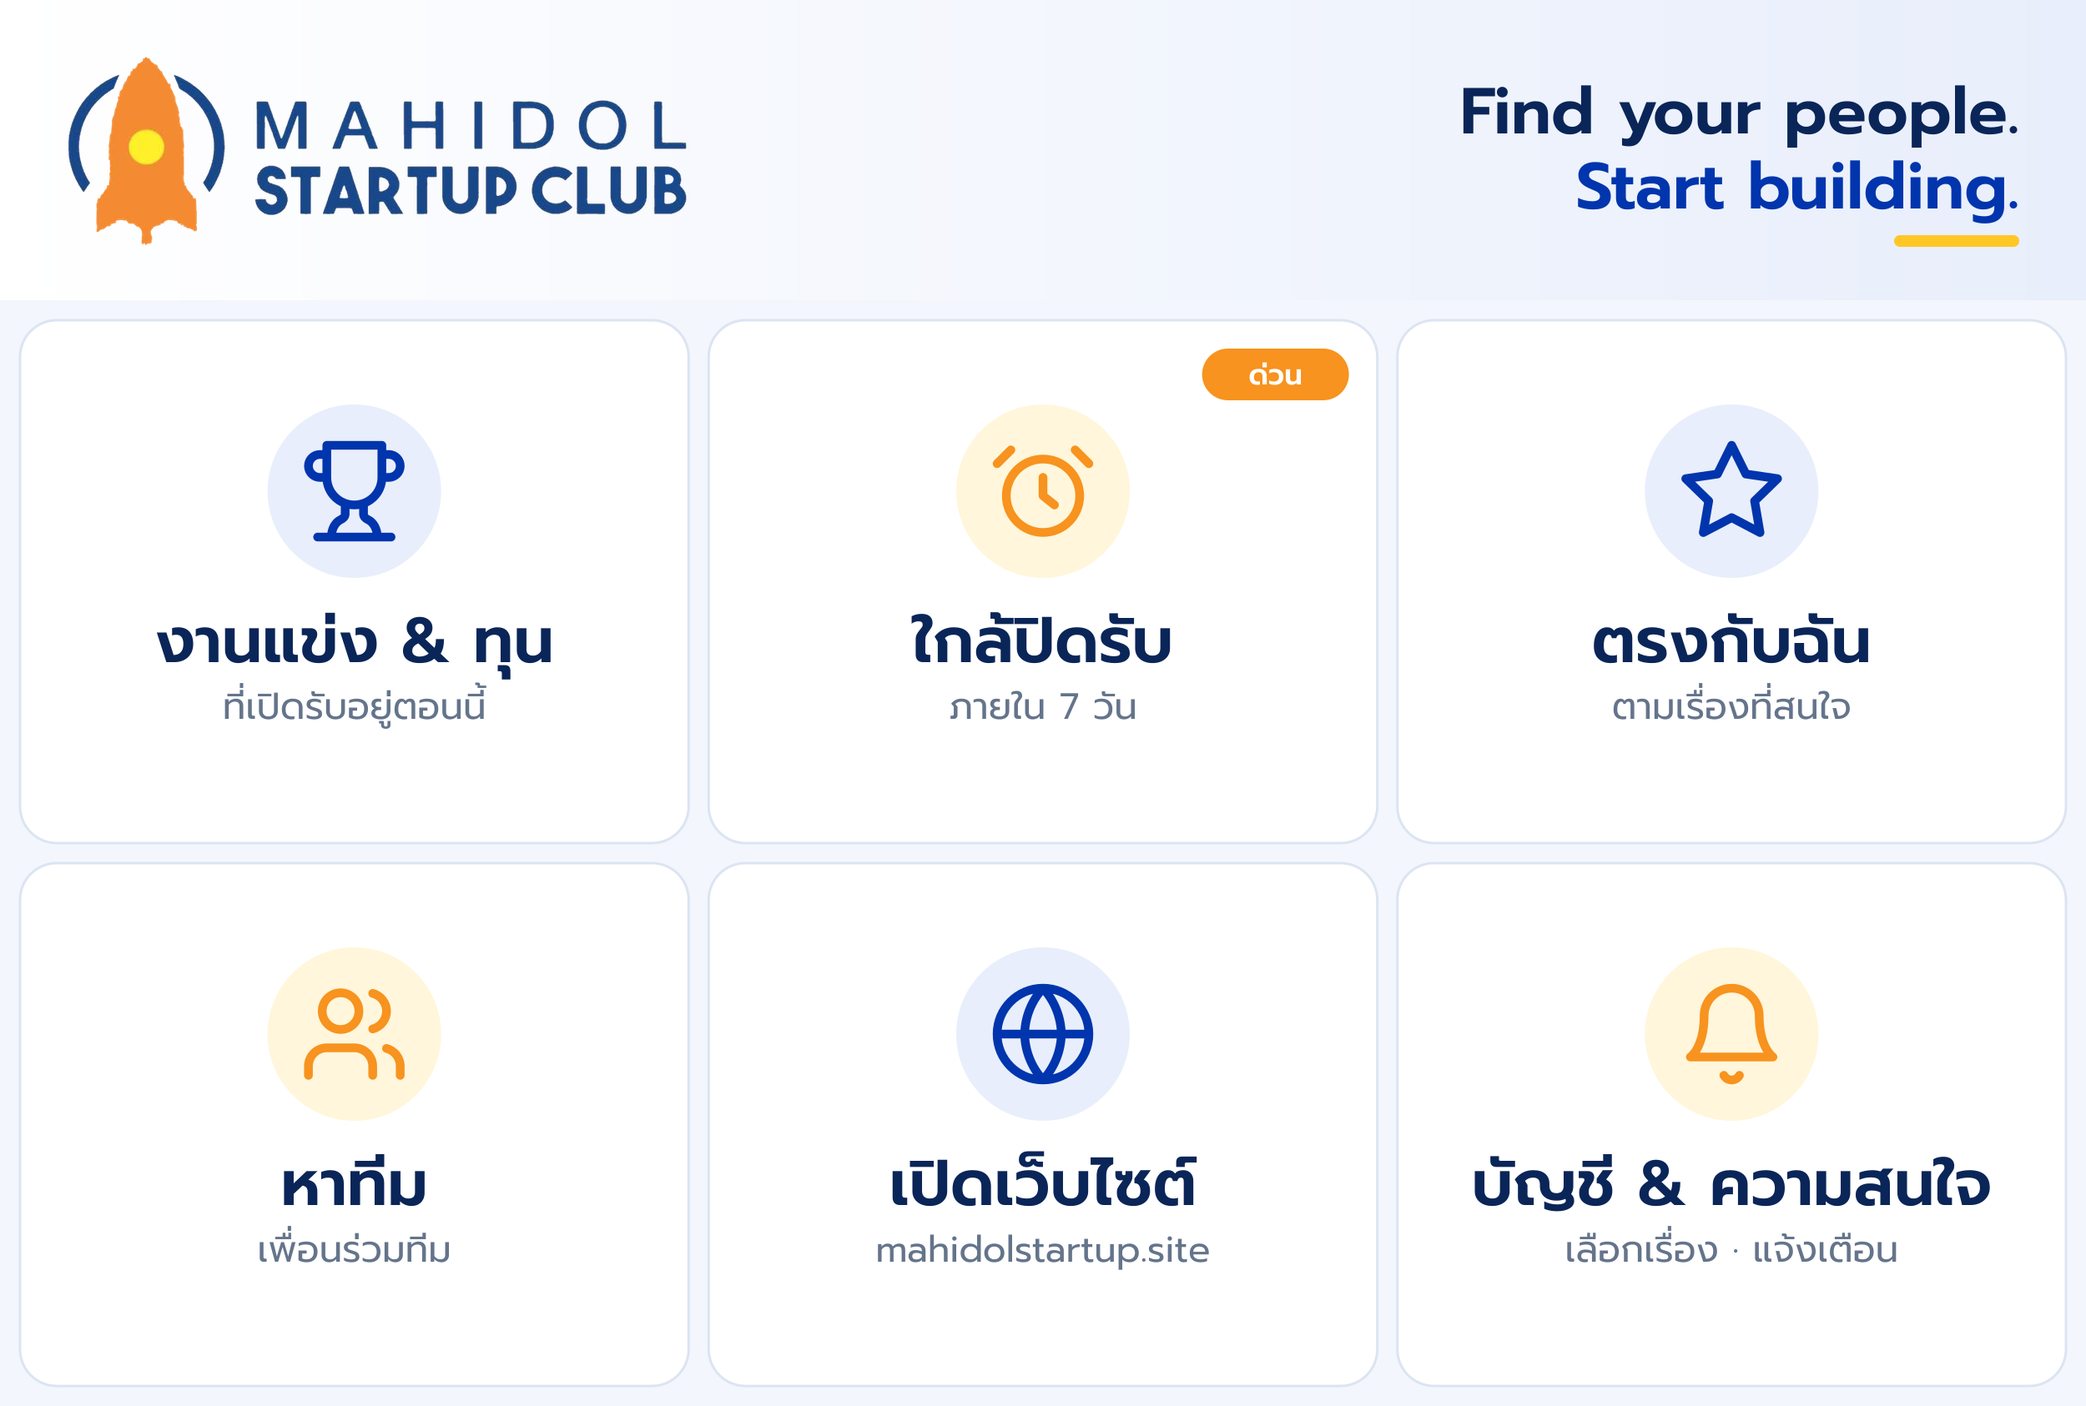
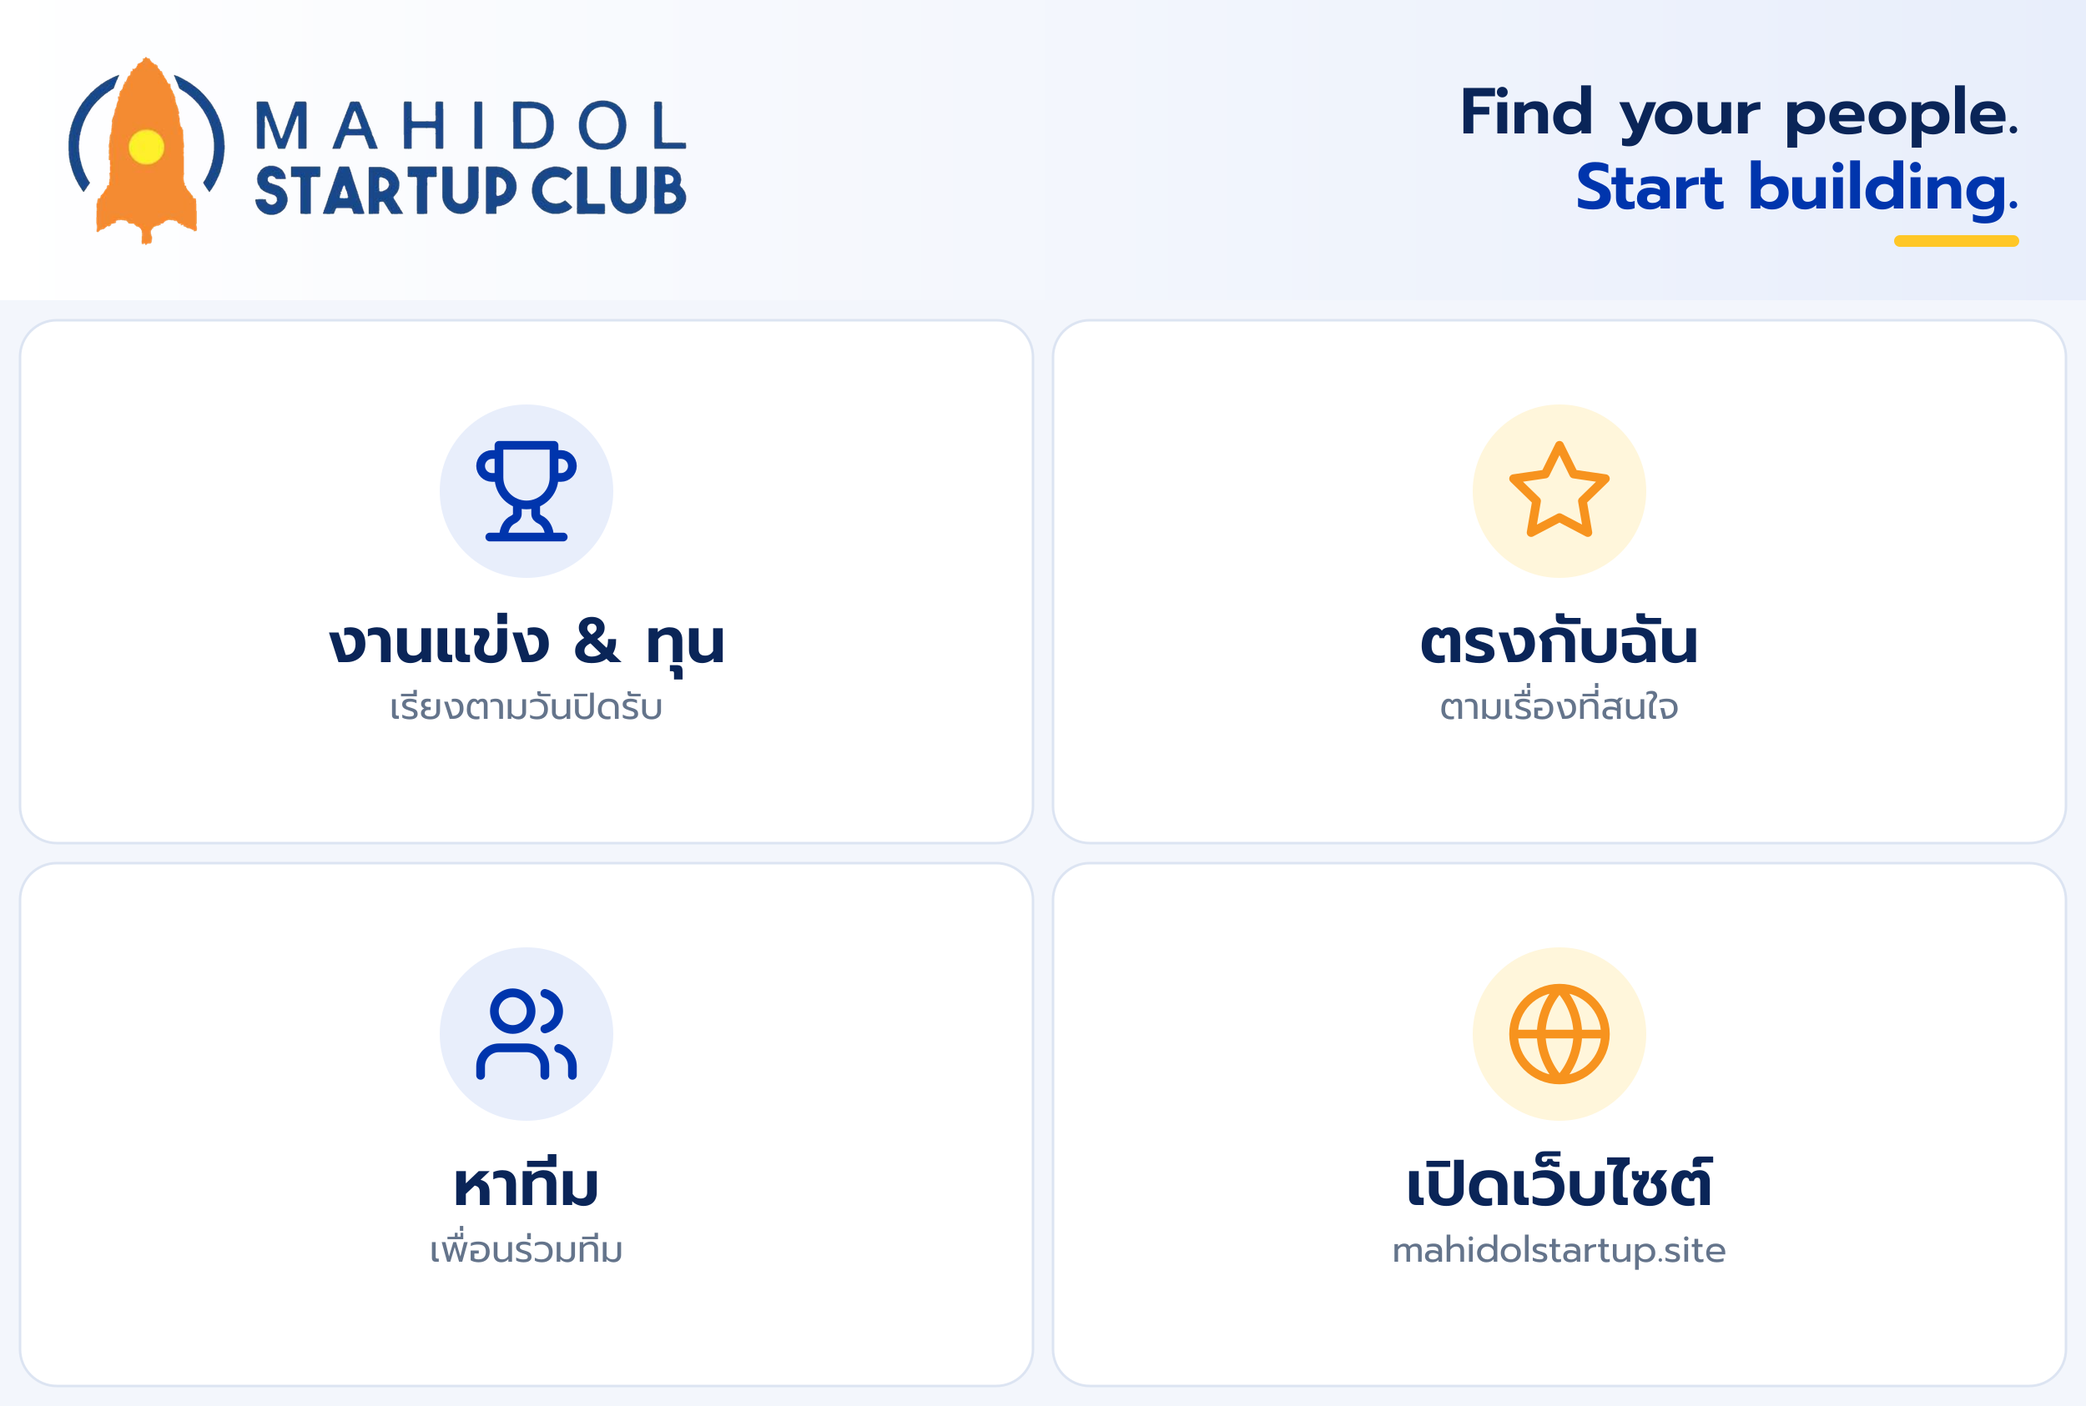
LINE: 4-button menus (2×2), no duplicate quick replies or trailing nudges
- Member: งานแข่ง & ทุน · ตรงกับฉัน · หาทีม · เปิดเว็บไซต์; guest: งานแข่ง & ทุน · หาทีม ·
  สมัครสมาชิกฟรี · เปิดเว็บไซต์ (closing-soon stays first in the deadline-sorted list)
- Removed quick-reply rows and follow-up text bubbles; empty/edge states are cards

diff --git a/src/lib/line/bot.ts b/src/lib/line/bot.ts
@@ -6,7 +6,7 @@ import { isClosed, msLeft, thaiDeadline, timeLeftLabel, urgency } from '@/lib/fo
 import { CATEGORIES, ROLE_KEYS, type Role } from '@/lib/constants'
 import { TOPICS } from '@/lib/topics'
 import { issueLinkToken, linkPageUrl } from './link'
-import { WELCOME_IMAGE, absoluteUrl, eventsCarousel, noticeFlex, textMessage, type NoticeContent, type QuickReply } from './messaging'
+import { WELCOME_IMAGE, eventsCarousel, noticeFlex, textMessage, type NoticeContent } from './messaging'
 import type { EventRow } from '@/lib/types'
 
 // What the OA chat answers. Every menu button is a postback ("m:<action>") answered with a
@@ -25,25 +25,7 @@ export async function linkedProfile(lineUserId: string): Promise<Linked | null> 
 
 const web = (path: string) => `${path}${path.includes('?') ? '&' : '?'}src=line`
 
-const MEMBER_QUICK: QuickReply[] = [
-  { label: '🏆 งานที่เปิดรับ', data: 'm:open' },
-  { label: '⏰ ใกล้ปิดรับ', data: 'm:closing' },
-  { label: '⭐ ตรงกับฉัน', data: 'm:foryou' },
-  { label: '👥 หาทีม', data: 'm:teams' },
-  { label: '🎯 เลือกความสนใจ', url: '/settings/interests?src=line' },
-  { label: '🌐 เปิดเว็บ', url: '/?src=line' },
-]
-const GUEST_QUICK: QuickReply[] = [
-  { label: '🚀 สมัครสมาชิกฟรี', data: 'm:join' },
-  { label: '🏆 งานที่เปิดรับ', data: 'm:open' },
-  { label: '⏰ ใกล้ปิดรับ', data: 'm:closing' },
-  { label: '👥 หาทีม', data: 'm:teams' },
-  { label: '🌐 เปิดเว็บ', url: '/?src=line' },
-]
-/** Quick replies under a message: guests always see "สมัครสมาชิกฟรี" first. */
-export const quickFor = (p: Linked | null) => (p ? MEMBER_QUICK : GUEST_QUICK)
-export const MENU_QUICK = MEMBER_QUICK
-const quickMsg = (text: string, p: Linked | null) => textMessage(text, quickFor(p))
+// No quick replies: the bottom menu already has every action, so replies stay clean.
 
 // Interests use the same keys as the website profile ("สายที่สนใจ") and event tags.
 export const INTEREST_LABEL: Record<Role, string> = {
@@ -137,7 +119,6 @@ export async function welcome(lineUserId: string, profile: Linked | null, justLi
           { type: 'uri', label: 'เปิดเว็บไซต์', url: web('/') },
         ],
       }),
-      quickMsg('สมัครฟรีได้เลย หรือดูงานก่อนก็ได้ 👇', null),
     ]
   }
   // Interests are picked on the website (/settings/interests) — one card here, no picker.
@@ -215,19 +196,16 @@ export async function openEvents(closingSoon: boolean, p: Linked | null = null):
   const more = closingSoon ? '/opportunities?within=7' : '/opportunities'
   if (!events.length) {
     return [
-      textMessage(closingSoon ? 'ไม่มีงานที่ปิดรับภายใน 7 วัน 🎉 ดูงานที่เปิดรับทั้งหมดได้เลย' : 'ตอนนี้ยังไม่มีงานที่เปิดรับ — มีงานใหม่เมื่อไหร่ เราจะบอก', [
-        { label: '🏆 งานที่เปิดรับ', data: 'm:open' },
-        { label: '🌐 เปิดเว็บ', url: web('/opportunities') },
-      ]),
+      noticeFlex({
+        altText: 'ยังไม่มีงานที่เปิดรับ',
+        title: closingSoon ? 'ไม่มีงานที่ปิดรับภายใน 7 วัน 🎉' : 'ตอนนี้ยังไม่มีงานที่เปิดรับ',
+        subtitle: 'มีงานใหม่เมื่อไหร่ จะขึ้นที่นี่และบนเว็บทันที',
+        actions: [{ type: 'uri', label: 'เปิดหน้างานแข่งบนเว็บ', url: web('/opportunities') }],
+      }),
     ]
   }
   return [
     eventsCarousel(closingSoon ? 'งานที่ใกล้ปิดรับใน 7 วัน' : 'งานแข่ง & ทุนที่เปิดรับ', events.slice(0, 9).map((ev) => eventItem(ev)), web(more)),
-    quickMsg(
-      (closingSoon ? `⏰ ${events.length} งานปิดรับภายใน 7 วัน — เลื่อนดูได้เลย` : `🏆 เปิดรับอยู่ ${events.length} งาน เรียงตามวันปิดรับ — เลื่อนดู หรือเปิดดูทั้งหมดบนเว็บ`) +
-        (p ? '' : '\n\n🚀 สมัครสมาชิกฟรี เพื่อรับงานที่ตรงกับคุณและเตือนก่อนปิดรับ'),
-      p,
-    ),
   ]
 }
 
@@ -241,15 +219,19 @@ export async function forYou(lineUserId: string, p: Linked | null): Promise<Line
     .sort((a, b) => byDeadline(a.ev, b.ev))
   if (!matches.length) {
     return [
-      textMessage('ตอนนี้ยังไม่มีงานที่ตรงกับความสนใจของคุณเปิดรับอยู่ — ลองเลือกเพิ่ม หรือดูงานทั้งหมด', [
-        { label: '🎯 เลือกความสนใจ', url: web('/settings/interests') },
-        { label: '🏆 งานที่เปิดรับ', data: 'm:open' },
-      ]),
+      noticeFlex({
+        altText: 'ยังไม่มีงานที่ตรงกับความสนใจ',
+        title: 'ยังไม่มีงานที่ตรงกับความสนใจของคุณเปิดรับอยู่',
+        subtitle: 'ลองเลือกเรื่องที่สนใจเพิ่ม หรือดูงานทั้งหมด',
+        actions: [
+          { type: 'postback', label: 'ดูงานที่เปิดรับทั้งหมด', data: 'm:open', displayText: 'งานแข่ง & ทุน' },
+          { type: 'uri', label: 'เลือกเรื่องที่สนใจ', url: web('/settings/interests') },
+        ],
+      }),
     ]
   }
   return [
     eventsCarousel('งานที่ตรงกับคุณ', matches.slice(0, 9).map((m) => eventItem(m.ev, `ตรงกับ ${m.why}`)), web('/opportunities')),
-    quickMsg(`⭐ ${matches.length} งานตรงกับความสนใจของคุณ — แก้ความสนใจได้ที่ “🎯 เลือกความสนใจ” (บนเว็บ)`, p),
   ]
 }
 
@@ -301,13 +283,13 @@ export async function handleMenu(data: string, lineUserId: string): Promise<Line
               ],
             }),
           ]
-        : [await linkInvite(lineUserId, 'สมัครสมาชิก Mahidol Startup Club ฟรี 🚀'), quickMsg('หรือดูงานก่อนก็ได้ 👇', null)]
+        : [await linkInvite(lineUserId, 'สมัครสมาชิก Mahidol Startup Club ฟรี 🚀')]
     case 'foryou':
       return forYou(lineUserId, p)
     case 'teams':
       return teams(p?.id ?? null)
     case 'help':
-      return [help(), quickMsg('หรือเลือกจากเมนู 👇', p)]
+      return [help()]
     case 'account':
       return account(lineUserId, p)
     case 'welcome':
@@ -317,6 +299,6 @@ export async function handleMenu(data: string, lineUserId: string): Promise<Line
     case 'n':
       return p ? [interestsOnWeb(p)] : [await linkInvite(lineUserId, 'สมัครสมาชิกฟรี เพื่อเลือกเรื่องที่สนใจ 🎯')]
     default:
-      return [quickMsg('เลือกจากเมนูด้านล่างได้เลย 👇', p)]
+      return [textMessage('เลือกจากเมนูด้านล่างได้เลย 👇')]
   }
 }

diff --git a/src/app/api/line/webhook/route.ts b/src/app/api/line/webhook/route.ts
@@ -3,7 +3,7 @@ import { adminClient } from '@/lib/supabase/admin'
 import { verifyPayload } from '@/lib/crypto'
 import { eventsCarousel, noticeFlex, replyMessage, textMessage, verifyLineSignature } from '@/lib/line/messaging'
 import { LINK_CODE_RE, consumeLinkCode, consumeNonce } from '@/lib/line/link'
-import { MENU_QUICK, handleMenu, linkInvite, linkedProfile, quickFor, welcome } from '@/lib/line/bot'
+import { handleMenu, linkInvite, linkedProfile, welcome } from '@/lib/line/bot'
 import { parseIntent } from '@/lib/ai/intent'
 import { runSearch } from '@/lib/search'
 import { respondToRequest } from '@/lib/messaging'
@@ -74,13 +74,13 @@ async function onPostback(e: LineEvent): Promise<Msg[]> {
   if (!data || (data.a !== 'accept' && data.a !== 'decline')) return []
   const profile = await linkedProfile(e.source.userId!)
   if (!profile || profile.id !== data.u) {
-    return [textMessage('ปุ่มนี้ใช้ได้เฉพาะบัญชีที่ได้รับคำขอ กรุณาเปิดบนเว็บแทน', [{ label: 'เปิดกล่องข้อความ', url: '/inbox?src=line' }])]
+    return [noticeFlex({ altText: 'เปิดบนเว็บแทน', title: 'ปุ่มนี้ใช้ได้เฉพาะบัญชีที่ได้รับคำขอ', subtitle: 'เปิดกล่องข้อความบนเว็บแทนได้เลย', actions: [{ type: 'uri', label: 'เปิดกล่องข้อความ', url: '/inbox?src=line' }] })]
   }
   try {
     const result = await respondToRequest(data.c, profile.id, data.a === 'accept')
-    return [textMessage(`${result} ✓${data.a === 'accept' ? '\nเริ่มคุยต่อบนเว็บได้เลย' : ''}`, [{ label: 'เปิดแชต', url: `/inbox?c=${data.c}&src=line` }])]
+    return [noticeFlex({ altText: result, title: `${result} ✓`, subtitle: data.a === 'accept' ? 'เริ่มคุยต่อบนเว็บได้เลย' : undefined, actions: [{ type: 'uri', label: 'เปิดแชต', url: `/inbox?c=${data.c}&src=line` }] })]
   } catch (err) {
-    return [textMessage((err as Error).message, MENU_QUICK)]
+    return [textMessage((err as Error).message)]
   }
 }
 
@@ -96,7 +96,7 @@ async function onText(e: LineEvent): Promise<Msg[]> {
     const profile = userId ? await linkedProfile(uid) : null
     return profile
       ? welcome(uid, profile, true)
-      : [textMessage('รหัสนี้หมดอายุหรือถูกใช้ไปแล้ว — กลับไปที่หน้าเว็บเพื่อรับรหัสใหม่ หรือแตะ “บัญชี”', [{ label: '🔗 เชื่อมบัญชีเว็บ', data: 'm:account' }])]
+      : [await linkInvite(uid, 'รหัสนี้หมดอายุหรือถูกใช้ไปแล้ว — เชื่อมใหม่ได้ที่นี่')]
   }
   for (const [re, action] of COMMANDS) if (re.test(text)) return (await handleMenu(action, uid)) ?? []
 
@@ -106,7 +106,7 @@ async function onText(e: LineEvent): Promise<Msg[]> {
   const { intent, usedFallback } = parsed
   if (parsed.status !== 'ok') {
     await adminClient().from('search_logs').insert({ user_id: profile?.id ?? null, query: text.slice(0, 300), used_fallback: false, source: 'line', engine: parsed.engine, status: parsed.status })
-    return [textMessage(parsed.message ?? '', quickFor(profile))]
+    return [textMessage(parsed.message ?? '')]
   }
   const results = await runSearch(intent, profile?.id ?? null)
   const searchUrl = `/search?q=${encodeURIComponent(text)}&src=line`
@@ -157,7 +157,6 @@ async function onText(e: LineEvent): Promise<Msg[]> {
       ),
     )
   }
-  messages.push(textMessage(profile ? 'ค้นอย่างอื่นได้เลย หรือเลือกจากเมนู 👇' : 'สมัครสมาชิกฟรี เพื่อรับงานที่ตรงกับคุณในแชตนี้ 👇', quickFor(profile)))
   return messages
 }
 
@@ -180,7 +179,7 @@ async function handle(e: LineEvent) {
     // Never leave a tap unanswered.
     if (e.replyToken) {
       await replyMessage(e.replyToken, [
-        textMessage('ขออภัย ระบบขัดข้องชั่วคราว ลองอีกครั้ง หรือเปิดดูบนเว็บได้เลย', [...MENU_QUICK.slice(0, 3), { label: '🌐 เปิดเว็บ', url: '/?src=line' }]),
+        textMessage('ขออภัย ระบบขัดข้องชั่วคราว ลองอีกครั้ง หรือเปิดดูบนเว็บ: https://mahidolstartup.site'),
       ]).catch(() => {})
     }
   }

diff --git a/SETUP.md b/SETUP.md
@@ -142,8 +142,9 @@
 8. ☐ บอก Claude ว่า “ทำขั้น 5 เสร็จแล้ว” → Claude จะ:
    - เพิ่ม 3 ค่า LINE ใน Vercel แล้ว deploy ใหม่ (`NEXT_PUBLIC_LINE_OA_ID` ต้อง build ใหม่ถึงจะมีผล)
    - รัน `npm run line:richmenu` ติดตั้งเมนูล่าง 2 แบบ (ภาพสร้างใหม่ได้ด้วย `node scripts/line-assets.mjs`):
-     - **ผู้เยี่ยมชม** (ค่าเริ่มต้น): งานแข่ง & ทุน · ใกล้ปิดรับ · หาทีม · **สมัครสมาชิกฟรี** (ปุ่มใหญ่) · เปิดเว็บไซต์
-     - **สมาชิก** (สลับให้อัตโนมัติเมื่อเชื่อมบัญชี): งานแข่ง & ทุน · ใกล้ปิดรับ · ตรงกับฉัน · หาทีม · เปิดเว็บไซต์ · บัญชี & ความสนใจ
+     - **ผู้เยี่ยมชม** (ค่าเริ่มต้น, 2×2): งานแข่ง & ทุน · หาทีม · **สมัครสมาชิกฟรี** · เปิดเว็บไซต์
+     - **สมาชิก** (2×2, สลับให้อัตโนมัติเมื่อเชื่อมบัญชี): งานแข่ง & ทุน · ตรงกับฉัน · หาทีม · เปิดเว็บไซต์
+     - ไม่มีปุ่มลัด (quick reply) ซ้ำกับเมนู · เลือกเรื่องที่สนใจทำบนเว็บ `/settings/interests`
      - ทุกปุ่มตอบในแชตด้วยข้อมูลจริง + ลิงก์เข้าเว็บ (ตอบกลับ = ฟรี) · ทดสอบทุกปุ่มได้ด้วย `node --env-file=.env.local scripts/dev/line-dryrun.mjs <LINE userId>`
 9. ☐ กลับไปกด **Verify** ที่ Webhook URL → ต้องขึ้น **Success**
 
